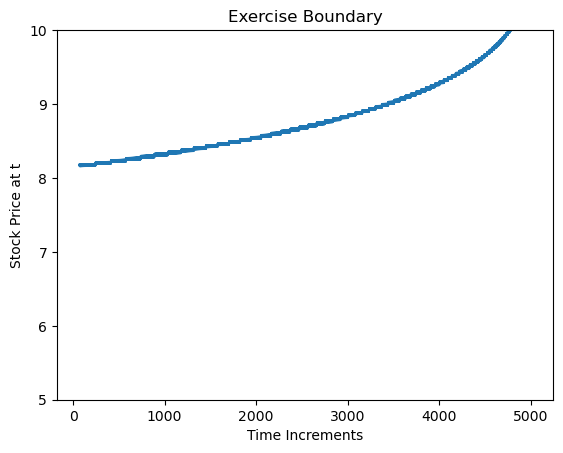
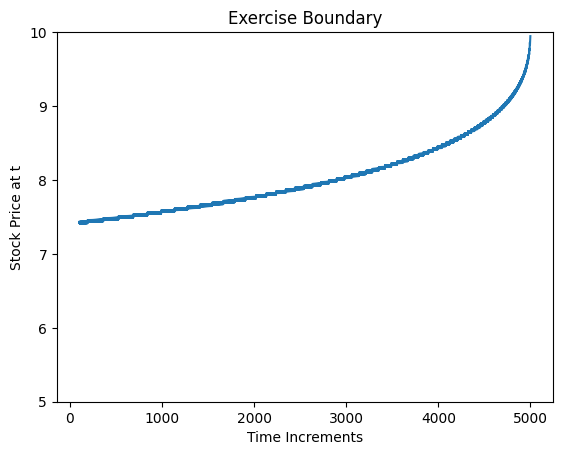
KDE changed and T variation added
Works fine with 1000 steps

Changed region(s): [[0.0, 0.0, 0.9982, 0.989], [0.3025, 0.2781, 0.847, 0.4636], [0.847, 0.2163, 0.9075, 0.2781]]

diff --git a/Main.py b/Main.py
@@ -6,9 +6,10 @@ import random
 
 if __name__ == "__main__":
     random.seed(10)
-    T = 1; S0 = 10; mu = 0.05; sigma =  0.2; r = 0.02; N = 5000; paths = 10000; K = 10
+    T = 1; S0 = 10; mu = 0.05; sigma =  0.2; r = 0.02; N = 5000; paths = 100; K = 10
     dt = T/N
 
+    """
     #Vary Parameters for PL and time plots
     crr, exercise_boundary = CRRPricer_A(T, S0, mu, sigma, r, N, K)
     #stimulated price paths
@@ -17,161 +18,20 @@ if __name__ == "__main__":
     PL20, PL20_2 = KDE_profit(crr, exercise_boundary, S, K, r, dt)
     T20 = KDE_time(exercise_boundary, S, N)
 
-
-    #Parameter K 9, 11
-    crrk9, exercise_boundaryk9 = CRRPricer_A(T, S0, mu, sigma, r, N, 9)
-    crrk11, exercise_boundaryk11 = CRRPricer_A(T, S0, mu, sigma, r, N,11)
-    Sk9 = pricePaths(T, S0, 9, mu, sigma, r, N, paths)
-    Sk11 = pricePaths(T, S0, 11, mu, sigma, r, N, paths)
-
-    PLk9, PLk9_2 = KDE_profit(crrk9, exercise_boundaryk9, Sk9, 9, r, dt)
-    PLk11, PLk11_2 = KDE_profit(crrk11, exercise_boundaryk11, Sk11, 11, r, dt)
-
-    df = PLk9.merge(PL20,how ='left', on = 'row_num').merge(PLk11,how ='left', on = 'row_num')
-    df.columns = ["row_num",r'K = 9',r'K = 10',r'K = 11']
-    df.drop(["row_num"], axis = 1, inplace = True)
-    ax = df.plot(kind='kde')
-    plt.xlabel("Profit and Loss")
-    plt.show()
-
-    df2 = PLk9_2.merge(PL20_2,how ='left', on = 'row_num').merge(PLk11_2,how ='left', on = 'row_num')
-    df2.columns = ["row_num",r'K = 9',r'K = 10',r'K = 11']
-    df2.drop(["row_num"], axis = 1, inplace = True)
-    ax2 = df2.plot(kind='kde')
-    plt.xlabel("Profit and Loss")
-    plt.show()
-
     
-    Tk9 = KDE_time(exercise_boundaryk9, Sk9, N)
-    Tk11 = KDE_time(exercise_boundaryk11, Sk11, N)
-    df = Tk9.merge(T20,how ='left', on = 'row_num').merge(Tk11,how ='left', on = 'row_num')
-    df.columns = ["row_num",r'K = 9',r'K = 10',r'K = 11']
-    df.drop(["row_num"], axis = 1, inplace = True)
-    ax = df.plot(kind='kde')
-    plt.xlabel("Time")
-    plt.show()
-'''
-    #Parameter T 0.5, 2
-    crrt05, exercise_boundaryt05 = CRRPricer_A(0.5, S0, mu, sigma, r, N, K)
-    crrt2, exercise_boundaryt2 = CRRPricer_A(2, S0, mu, sigma, r, N, K)
-    St05 = pricePaths(0.5, S0, K, mu, sigma, r, N, paths)
-    St2 = pricePaths(2, S0, K, mu, sigma, r, N, paths)
-    
-    PLt05, PLt05_2 = KDE_profit(crrt05, exercise_boundaryt05, St05, K, r, 0.5/N)
-    PLt2, PLt2_2 = KDE_profit(crrt2, exercise_boundaryt2, St2, K, r, 2/N)
-
-   
-    df = PLt05.merge(PL20,how ='left', on = 'row_num').merge(PLt2,how ='left', on = 'row_num')
-    df.columns = ["row_num",r'T = 0.5',r'T = 1',r'T = 2']
-    df.drop(["row_num"], axis = 1, inplace = True)
-    ax = df.plot(kind='kde')
-    plt.xlabel= ("Profit and Loss")
-    plt.show()
-    
-
-    df2 = PLt05_2.merge(PLt2_2, how = 'left', on = 'row_num').merge(PL20_2, how = 'left', on = 'row_num')
-    df2.columns = ["row_num",r'T = 0.5',r'T = 1',r'T = 2']
-    df2.drop(["row_num"], axis = 1, inplace = True)
-    ax2 = df2.plot(kind = 'kde')
-    plt.xlabel = ("Profit and Loss")
-    plt.show()
-
-
-    Tt05 = KDE_time(exercise_boundaryt05, St05, N)
-    Tt2 = KDE_time(exercise_boundaryt2, St2, N)
-    df = Tt05.merge(T20,how ='left', on = 'row_num').merge(Tt2,how ='left', on = 'row_num')
-    df.columns = ["row_num",r'T = 0.5',r'T = 1',r'T = 2']
-    df.drop(["row_num"], axis = 1, inplace = True)
-    ax = df.plot(kind='kde')
-    plt.xlabel = ("Time")
-    plt.show()
-
-  
-    
-    #Parameter S0 9,11
-    crrs05, exercise_boundarys05 = CRRPricer_A(T, 9, mu, sigma, r, N, K)
-    crrs15, exercise_boundarys15 = CRRPricer_A(T, 11, mu, sigma, r, N, K)
-    Ss05 = pricePaths(T, 9, K, mu, sigma, r, N, paths)
-    Ss15 = pricePaths(T, 11, K, mu, sigma, r, N, paths)
-
-    PLs05, PLs05_2 = KDE_profit(crrs05, exercise_boundarys05, Ss05, K, r, dt)
-    PLs15, PLs15_2 = KDE_profit(crrs15, exercise_boundarys15, Ss15, K, r, dt)
-
-    df = PLs05.merge(PL20,how ='left', on = 'row_num').merge(PLs15,how ='left', on = 'row_num')
-    df.columns = ["row_num",r'S_0 = 9',r'S_0 = 10',r'S_0 = 11']
-    df.drop(["row_num"], axis = 1, inplace = True)
-    ax = df.plot(kind='kde')
-    plt.xlabel("Profit and Loss")
-    plt.show()
-
-    df2 = PLs05_2.merge(PL20_2,how ='left', on = 'row_num').merge(PLs15_2,how ='left', on = 'row_num')
-    df2.columns = ["row_num",r'S_0 = 9',r'S_0 = 10',r'S_0 = 11']
-    df2.drop(["row_num"], axis = 1, inplace = True)
-    ax2 = df2.plot(kind='kde')
-    plt.xlabel("Profit and Loss")
-    plt.show()
-
-    
-    Ts05 = KDE_time(exercise_boundarys05, Ss05, N)
-    Ts15 = KDE_time(exercise_boundarys15, Ss15, N)
-    df = Ts05.merge(T20,how ='left', on = 'row_num').merge(Ts15,how ='left', on = 'row_num')
-    df.columns = ["row_num",r'S_0 = 9',r'S_0 = 10',r'S_0 = 11']
-    df.drop(["row_num"], axis = 1, inplace = True)
-    ax = df.plot(kind='kde')
-    plt.xlabel("Time")
-    plt.show()
-
-    
-    #Parameter T 0.5, 2
-    crrt05, exercise_boundaryt05 = CRRPricer_A(0.5, S0, mu, sigma, r, N, K)
-    crrt2, exercise_boundaryt2 = CRRPricer_A(2, S0, mu, sigma, r, N, K)
-    St05 = pricePaths(0.5, S0, K, mu, sigma, r, N, paths)
-    St2 = pricePaths(2, S0, K, mu, sigma, r, N, paths)
-    
-    PLt05, PLt05_2 = KDE_profit(crrt05, exercise_boundaryt05, St05, K, r, 0.5/N)
-    PLt2, PLt2_2 = KDE_profit(crrt2, exercise_boundaryt2, St2, K, r, 0.5/N)
-
-    
-    df = PLt05.merge(PL20,how ='left', on = 'row_num').merge(PLt2,how ='left', on = 'row_num')
-    df.columns = ["row_num",r'T = 0.5',r'T = 1',r'T = 2']
-    df.drop(["row_num"], axis = 1, inplace = True)
-    ax = df.plot(kind='kde')
-    plt.xlabel= ("Profit and Loss")
-    plt.show()
-    
-
-    df2 = PLt05_2.merge(PLt2_2, how = 'left', on = 'row_num').merge(PL20_2, how = 'left', on = 'row_num')
-    df2.columns = ["row_num",r'T = 0.5',r'T = 1',r'T = 2']
-    df2.drop(["row_num"], axis = 1, inplace = True)
-    ax2 = df2.plot(kind = 'kde')
-    plt.xlabel = ("Profit and Loss")
-    plt.show()
-
-
-    Tt05 = KDE_time(exercise_boundaryt05, St05, N)
-    Tt2 = KDE_time(exercise_boundaryt2, St2, N)
-    df = Tt05.merge(T20,how ='left', on = 'row_num').merge(Tt2,how ='left', on = 'row_num')
-    df.columns = ["row_num",r'T = 0.5',r'T = 1',r'T = 2']
-    df.drop(["row_num"], axis = 1, inplace = True)
-    ax = df.plot(kind='kde')
-    plt.xlabel = ("Time")
-    plt.show()
-
-  
     T = PL20_2.drop(columns=["row_num"])
     T.columns = [r'$\sigma$ =0.2']
     ax = T.plot(kind='kde')
     plt.xlabel = ("Profit and Loss")
     plt.show()
-    
-   
-    #Parameter mu 0.01, 0.02
-    crrmu1, exercise_boundarymu1 = CRRPricer_A(T, S0, 0.01, sigma, r, N, K)
+     
+
+    #Parameter mu 0.02, 0.08
     crrmu2, exercise_boundarymu2 = CRRPricer_A(T, S0, 0.02, sigma, r, N, K)
     Smu1 = pricePaths(T, S0, K, 0.01, sigma, r, N, paths)
     Smu2 = pricePaths(T, S0, K, 0.02, sigma, r, N, paths)
+    Smu8 = pricePaths(T, S0, K, 0.08, sigma, r, N, paths)
     
-    PLmu1, PLmu1_2 = KDE_profit(crrmu1, exercise_boundarymu1, Smu1, K, r, dt)
     PLmu2, PLmu2_2 = KDE_profit(crrmu2, exercise_boundarymu2, Smu2, K, r, dt)
 
 
@@ -190,8 +50,6 @@ if __name__ == "__main__":
     plt.xlabel = ("Profit and Loss")
     plt.show()
 
-
-    Tmu1 = KDE_time(exercise_boundarymu1, Smu1, N)
     Tmu2 = KDE_time(exercise_boundarymu2, Smu2, N)
     df = Tmu1.merge(Tmu2,how ='left', on = 'row_num').merge(T20,how ='left', on = 'row_num')
     df.columns = ["row_num",r'$\mu$ =0.01',r'$\mu$ =0.02',r'$\mu$ =0.05']
@@ -258,8 +116,6 @@ if __name__ == "__main__":
     ax2 = df2.plot(kind = 'kde')
     plt.xlabel = ("Profit and Loss")
     plt.show()
-    
-    
     Tr5 = KDE_time(exercise_boundaryr5, Sr5, N)
     Tr8 = KDE_time(exercise_boundaryr8, Sr8, N)
     df = T20.merge(Tr5,how ='left', on = 'row_num').merge(Tr8,how ='left', on = 'row_num')
@@ -270,19 +126,47 @@ if __name__ == "__main__":
     plt.show()
     '''
 
-'''
+    """
+
+#Parameters T = 0.5, T = 2
+    crr, exercise_boundary = CRRPricer_A(T, S0, mu, sigma, r, N, K)
+    #stimulated price paths
+    S = pricePaths(T, S0, K, mu, sigma, r, N, paths)
+    #profit and loses
+    T20 = KDE_time(exercise_boundary, S, N)
+
+    crrT05, exercise_boundaryT05 = CRRPricer_A(0.5, S0, mu, sigma, r, N, K)
+    crrT2, exercise_boundaryT2 = CRRPricer_A(2, S0, mu, sigma, r, N, K)
+    ST05 = pricePaths(0.5, S0, K, mu, sigma, r, N, paths)
+    ST2 = pricePaths(2 , S0, K, mu, sigma, r, N, paths)
+
+    T05 = KDE_time(exercise_boundaryT05, ST05, N, 0.5)
+    T2 = KDE_time(exercise_boundaryT2, ST2, N, 2)
+
+    df = T20.merge(T05,how ='left', on = 'row_num').merge(T2,how ='left', on = 'row_num')
+    df.columns = ["row_num",r'T=1',r'T=0.5',r'T=2']
+    df.drop(["row_num"], axis = 1, inplace = True)
+    ax = df.plot(kind='kde')
+    plt.xlabel("Time")
+    plt.show()
+
+
+
 #stimulated profit and loses at various volatility with 20% volatility excercise boundary
     crr, exercise_boundary = CRRPricer_A(T, S0, mu, sigma, r, N, K)
     #stimulated price paths
     S = pricePaths(T, S0, K, mu, sigma, r, N, paths)
     #profit and loses
-    PL20 = KDE_profit(crr, exercise_boundary, S, K, r, dt)
+    PL20, PL20_2 = KDE_profit(crr, exercise_boundary, S, K, r, dt)
     #profit and loses plot for 20% volatility
     PL = PL20.drop(columns=["row_num"])
     PL.columns = [r'$\sigma$ =0.2']
+
+
     ax = PL.plot(kind='kde')
-    plt.xlabel = ("Profit and Loss")
-    plt.show()
+    plt.xlabel("Profit and Loss")
+    plt.show() 
+    
 
     #Stimulate price paths for various realized volatility 
     S10 = pricePaths(T, S0, K, mu, 0.1, r, N, paths)
@@ -291,25 +175,31 @@ if __name__ == "__main__":
     S30 = pricePaths(T, S0, K, mu, 0.3, r, N, paths)
 
     #Calculate Profit and Loses with different realized volatility and appling 20% volatility trading strategy
-    PL10 = KDE_profit(crr, exercise_boundary, S10, K, r, dt)
-    PL15 = KDE_profit(crr, exercise_boundary, S15, K, r, dt)
-    PL25 = KDE_profit(crr, exercise_boundary, S25, K, r, dt)
-    PL30 = KDE_profit(crr, exercise_boundary, S30, K, r, dt)
+    PL10, PL10_2 = KDE_profit(crr, exercise_boundary, S10, K, r, dt)
+    PL15, PL15_2 = KDE_profit(crr, exercise_boundary, S15, K, r, dt)
+    PL25, PL25_2 = KDE_profit(crr, exercise_boundary, S25, K, r, dt)
+    PL30, PL30_2 = KDE_profit(crr, exercise_boundary, S30, K, r, dt)
 
     df = PL10.merge(PL15,how ='left', on = 'row_num').merge(PL20,how ='left', on = 'row_num').merge(PL25,how ='left', on = 'row_num').merge(PL30,how ='left', on = 'row_num')
     df.columns = ["row_num",r'$\sigma$ =0.1',r'$\sigma$ =0.15',r'$\sigma$ =0.2',r'$\sigma$ =0.25', r'$\sigma$ =0.3']
     df.drop(["row_num"], axis = 1, inplace = True)
-    print(df)
+    #print(df)
     ax = df.plot(kind='kde')
     plt.xlabel = ("Profit and Loss")
     plt.show()
 
-'''
+
+    df2 = PL10_2.merge(PL15_2,how ='left', on = 'row_num').merge(PL20_2,how ='left', on = 'row_num').merge(PL25_2,how ='left', on = 'row_num').merge(PL30_2,how ='left', on = 'row_num')
+    df2.columns = ["row_num",r'$\sigma$ =0.1',r'$\sigma$ =0.15',r'$\sigma$ =0.2',r'$\sigma$ =0.25', r'$\sigma$ =0.3']
+    df2.drop(["row_num"], axis = 1, inplace = True)
+    #print(df2)
+    ax = df2.plot(kind='kde')
+    #plt.xlabel("Profit and Loss")
+    plt.show()
 
 
 
-
-'''
+"""
 #Exercise Boundaries with varying volatilities and varying risk free interest rates   
 
     sigmas = [0.1, 0.15, 0.2, 0.25, 0.3]
@@ -320,7 +210,7 @@ if __name__ == "__main__":
     for rate in risk_free_rates:
         CRRPricer_A(1, 10, 0.05, 0.2, rate, 5000, 10)
 
-'''
+"""
 
 
 

diff --git a/KDE.py b/KDE.py
@@ -27,7 +27,7 @@ def KDE_profit(option_price, exercise_boundary, prices, strike_price, r, dt):
     PL2 = pd.DataFrame(data2)
     PL2['row_num'] = PL2.reset_index().index
     PL2 = PL2[["row_num","AmerPut_Val"]]
-    
+
     if len(AmerPut_Val) < len(prices):
         AmerPut_Val.extend([-option_price]*(len(prices)-len(AmerPut_Val)))
     else:
@@ -41,7 +41,7 @@ def KDE_profit(option_price, exercise_boundary, prices, strike_price, r, dt):
 
     return PL, PL2 
 
-def KDE_time(exercise_boundary, prices, TimeSteps):
+def KDE_time(exercise_boundary, prices, TimeSteps, ExpiryTime = 1):
     S = prices[:,1:]
     exercise_times = []
 
@@ -53,7 +53,7 @@ def KDE_time(exercise_boundary, prices, TimeSteps):
             else:
                 pass
         
-    exercise_times = np.array([x/TimeSteps for x in exercise_times])
+    exercise_times = np.array([(x*ExpiryTime)/TimeSteps for x in exercise_times])
 
     data = {'Exercise Times': exercise_times}
     ex_times = pd.DataFrame(data)
